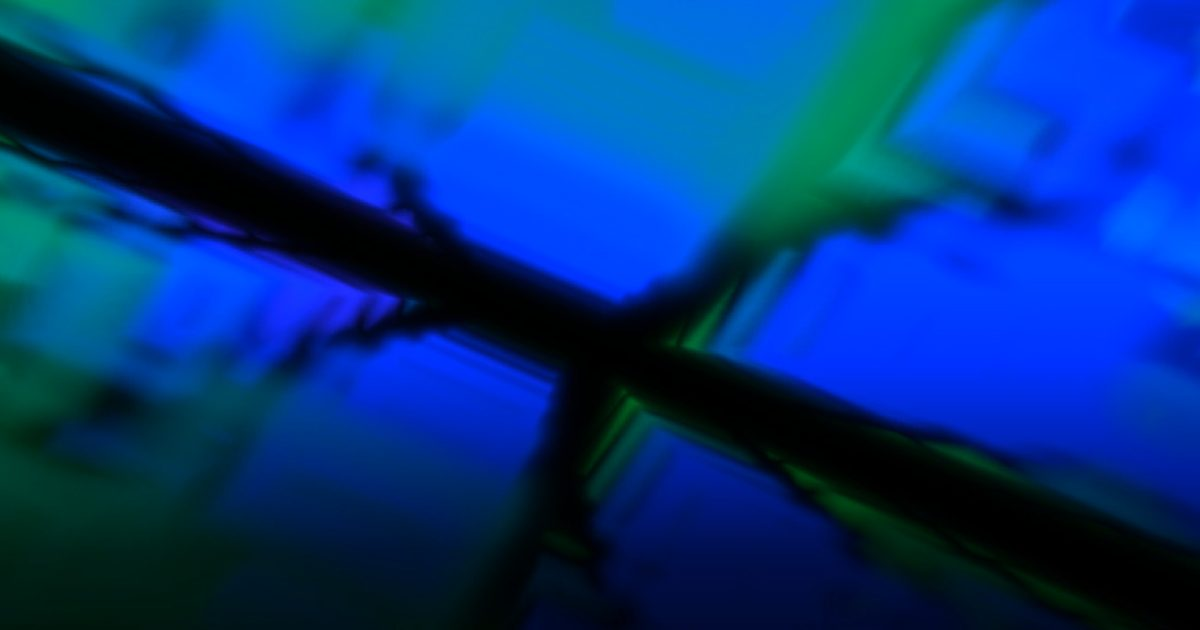
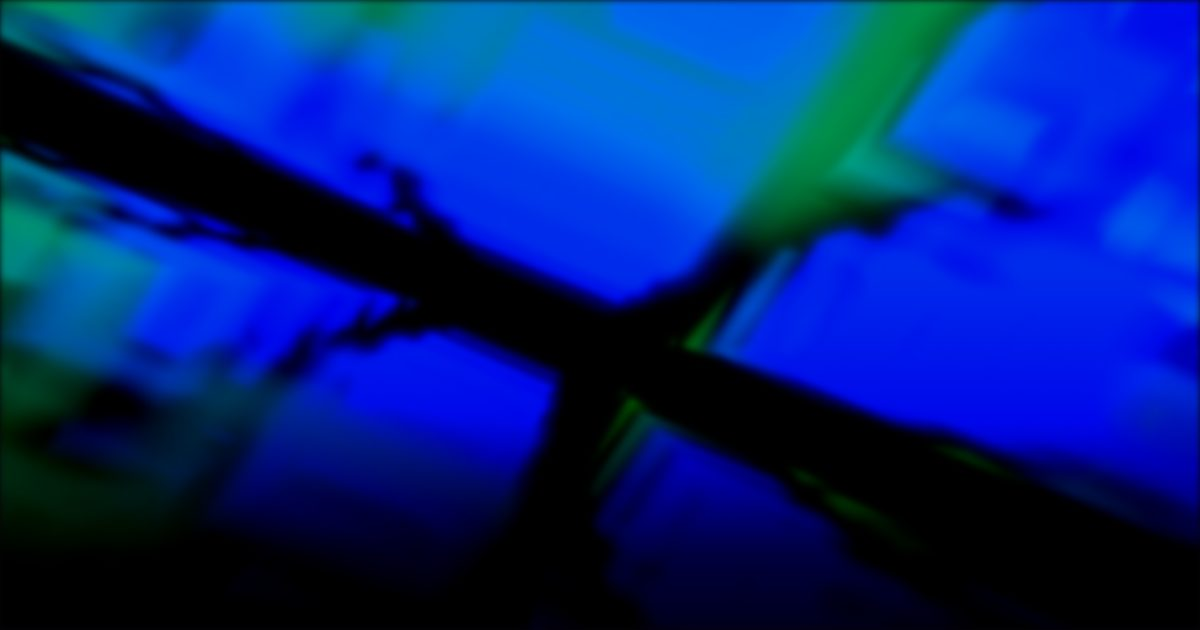
fix(og): lighter cards with the type on flat void
Full-bleed light made every card a 470 to 520KB PNG, three times the old
cards and over the roughly 300KB where WhatsApp is reported to drop the
thumbnail. Resolution and blur barely moved it; the cost was how much of
the canvas carried smoothly varying color. The words now sit on flat
void and the light fills the right side, and the frames' near-blacks are
crushed so their dark regions compress flat. Cards land at 223 to 268KB
and the light reads more saturated.

Titles and subtitles also break inside long unspaced runs instead of
running off the right edge, with a test variant that renders one.

diff --git a/app/lib/og/card.tsx b/app/lib/og/card.tsx
@@ -1,8 +1,10 @@
 // app/lib/og/card.tsx
-// OG cards in the Emission language: a frame of Hypercolor's real light on
-// the right, tinted per kind, a dark scrim under the words, the expanded
-// Archivo title, a Sora subtitle, and mono labels. Satori renders this, so
-// every element is flex and every style is inline.
+// OG cards in the Emission language: the words on flat void, a field of
+// Hypercolor's real light on the right tinted per kind, the expanded Archivo
+// title, a Sora subtitle, and mono labels. Satori renders this, so every
+// element is flex and every style is inline. Keeping the type side flat and
+// the frames' blacks crushed holds the PNG near 250KB; a full-bleed light
+// wash weighed twice that.
 
 import type { ReactElement } from 'react'
 
@@ -78,8 +80,7 @@ export function OgCard({ kind, title, subtitle, meta, logoSrc, lightSrc }: OgCar
       ) : null}
       <div
         style={{
-          backgroundImage:
-            'linear-gradient(90deg, rgba(5, 3, 8, 0.94) 0%, rgba(5, 3, 8, 0.78) 46%, rgba(5, 3, 8, 0.18) 100%)',
+          backgroundImage: `linear-gradient(90deg, ${VOID} 0%, ${VOID} 58%, rgba(5, 3, 8, 0.72) 74%, rgba(5, 3, 8, 0.15) 100%)`,
           display: 'flex',
           height: OG_HEIGHT,
           left: 0,
@@ -157,6 +158,7 @@ export function OgCard({ kind, title, subtitle, meta, logoSrc, lightSrc }: OgCar
                 fontWeight: 900,
                 letterSpacing: -1,
                 lineHeight: 1,
+                wordBreak: 'break-word',
               }}
             >
               {shownTitle}
@@ -172,6 +174,7 @@ export function OgCard({ kind, title, subtitle, meta, logoSrc, lightSrc }: OgCar
                 fontWeight: 400,
                 lineHeight: 1.4,
                 maxWidth: 900,
+                wordBreak: 'break-word',
               }}
             >
               {isSite ? SITE_SUBTITLE : clamp(subtitle ?? '', 140)}

diff --git a/tests/og-card.test.tsx b/tests/og-card.test.tsx
@@ -19,6 +19,7 @@ const variants: Record<string, string> = {
     'kind=lab&title=Regex%20Nightmares&subtitle=21%20regular%20expressions%20dissected%20down%20to%20the%20molecular%20level.&meta=April%208%2C%202026',
   'og-project': 'kind=project&title=chromacat&subtitle=A%20turbocharged%20terminal%20colorizer%20written%20in%20Rust.',
   'og-site': 'kind=site',
+  'og-unbroken': `kind=blog&title=${'Supercalifragilistic'.repeat(4)}&subtitle=${'x'.repeat(140)}`,
 }
 
 describe('og card generation', () => {

diff --git a/app/lib/metadata.ts b/app/lib/metadata.ts
@@ -14,7 +14,7 @@ const SITE_DESCRIPTION =
 const SITE_NAME = COMPANY_NAME
 const OG_LOCALE = 'en_US'
 
-// Generated SilkCircuit terminal card — see app/api/og
+// The site's generated social card, rendered by app/api/og
 const DEFAULT_OG_IMAGE = {
   alt: SITE_DESCRIPTION,
   height: OG_IMAGE_HEIGHT,
